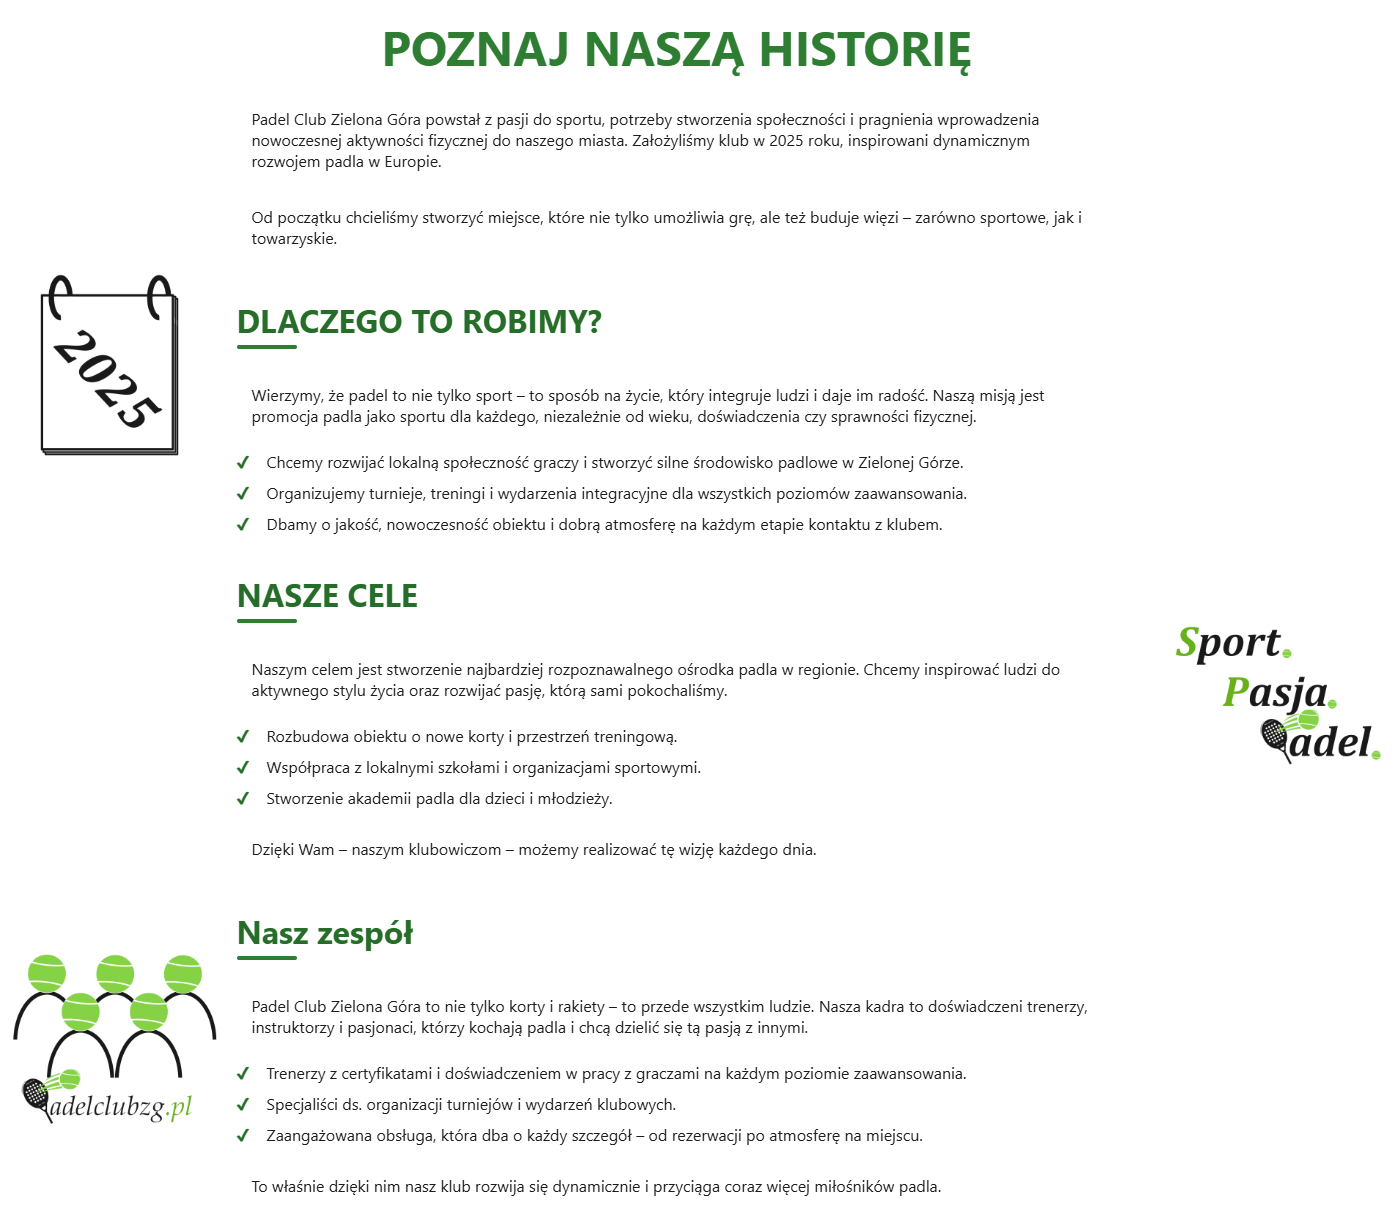
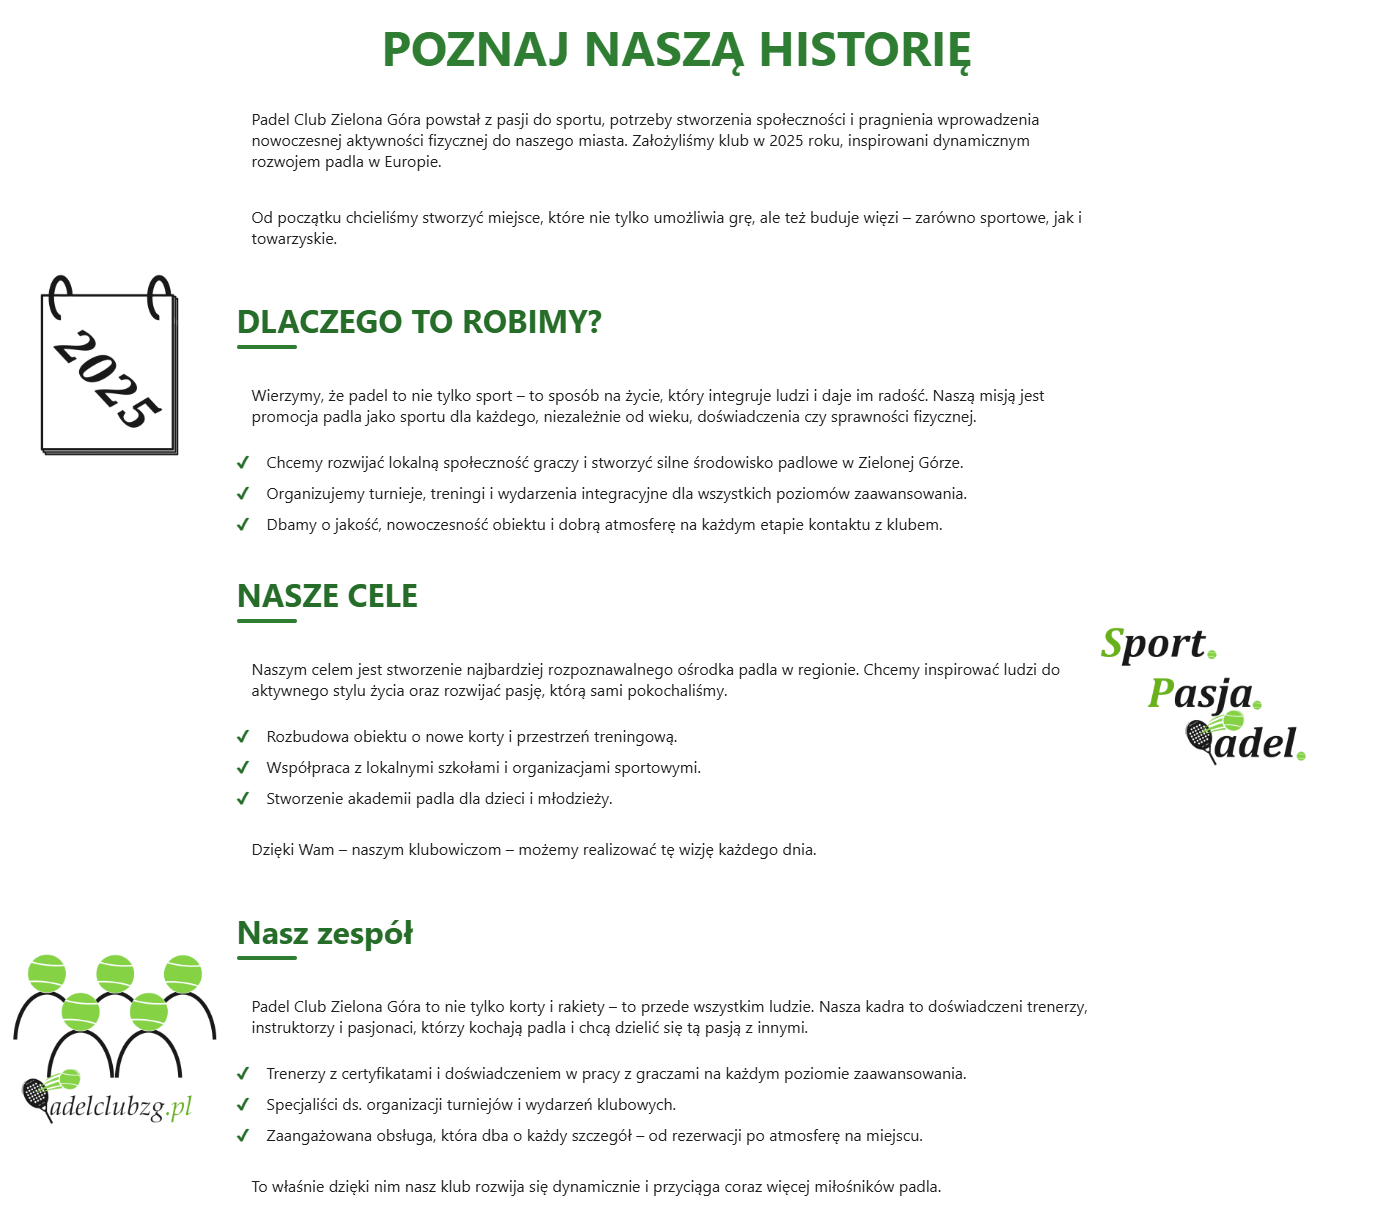
Add files via upload

Changed region(s): [[0.7986, 0.4943, 0.9829, 0.6179]]

diff --git a/style.css b/style.css
@@ -460,6 +460,13 @@ footer {
 
 /* Mobilki (max-width 768px) */
 @media (max-width: 768px) {
+    .header {
+        height:65px;
+    }
+
+    header.shrink {
+        height:90px;
+    }
     /* Hamburger */
     .hamburger {
         display: flex;

diff --git a/onas.css b/onas.css
@@ -59,7 +59,7 @@ html, body {
 
 .about-wrapper img.decor.left-center {
   top: 55%;
-  right: -210px;
+  right: -160px;
   transform: translateY(-50%);
 }
 
